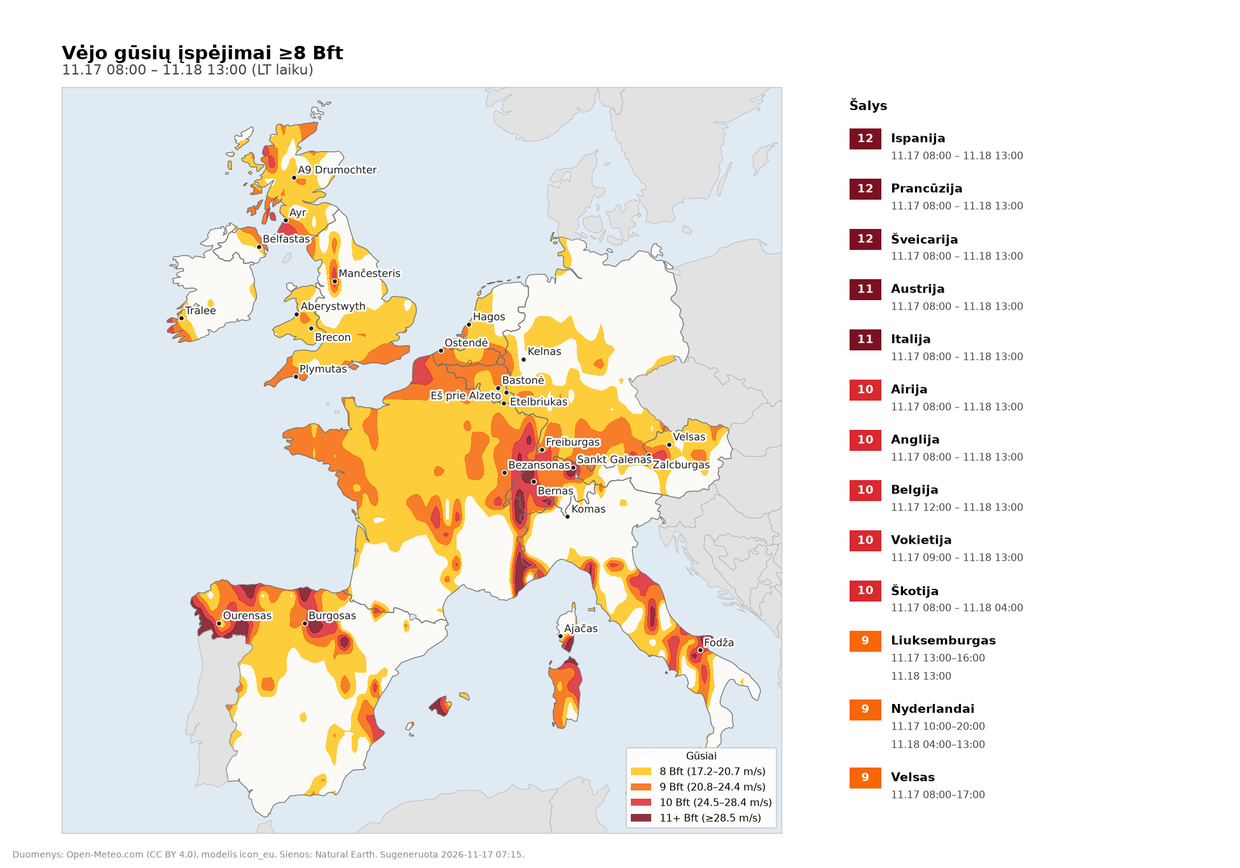
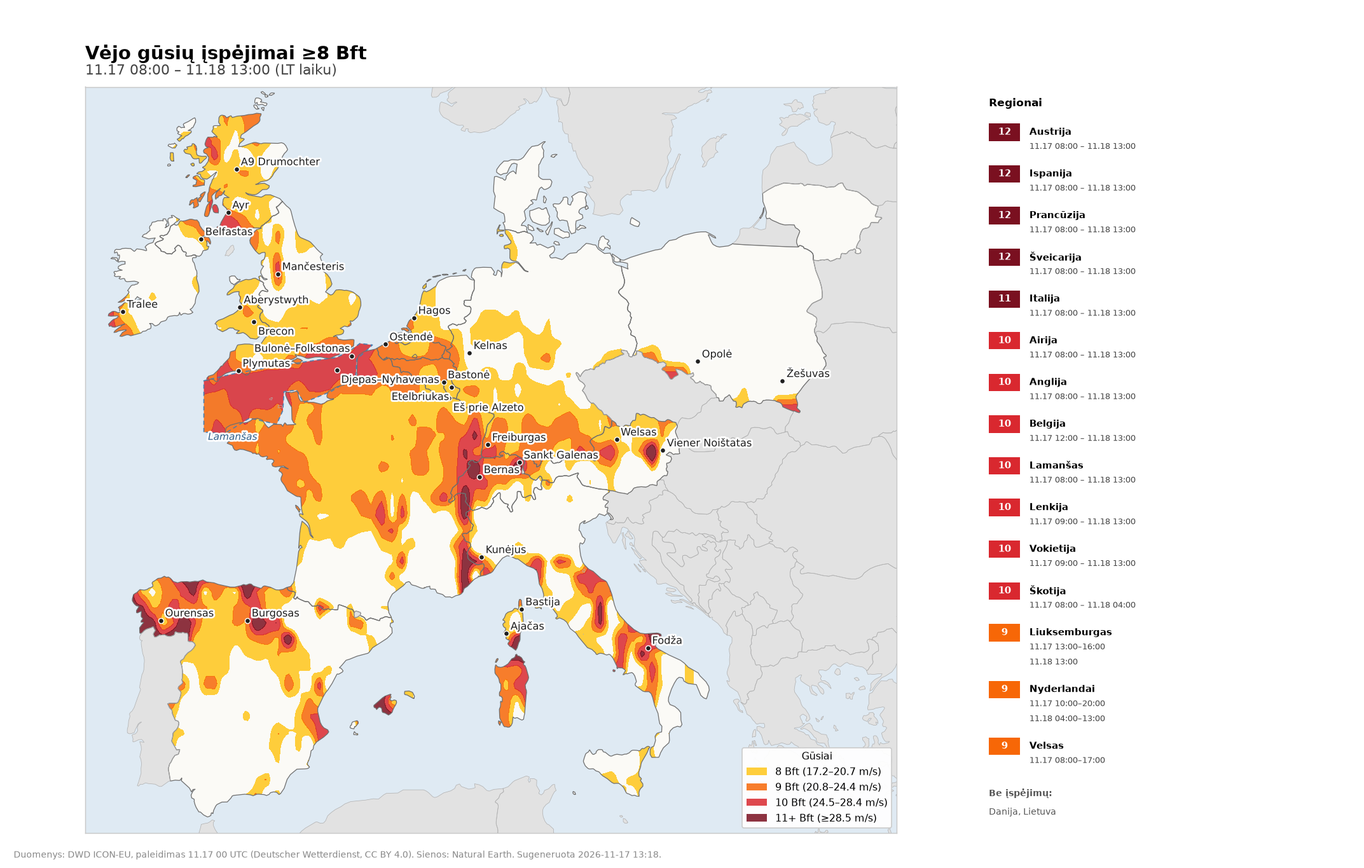
Vėjo įspėjimai 2026-11-17

Changed region(s): [[0.0308, 0.0308, 0.8308, 1.0]]

diff --git a/output/vejo_ispejimai.html b/output/vejo_ispejimai.html
@@ -1,1 +1,1 @@
-<p style="font-family:Arial,sans-serif;font-size:14px"><b>Vėjo gūsių įspėjimai ≥8 Bft</b><br>Laikotarpis: 11.17 08:00 – 11.18 13:00 (LT laiku)</p><table style="border-collapse:collapse;font-family:Arial,sans-serif;font-size:13px"><tr style="background:#f3f3f3"><th style="padding:6px 10px;border:1px solid #ddd;text-align:left">Regionas</th><th style="padding:6px 10px;border:1px solid #ddd;text-align:left">Gūsiai</th><th style="padding:6px 10px;border:1px solid #ddd;text-align:left">Laikotarpis</th><th style="padding:6px 10px;border:1px solid #ddd;text-align:left">Vietos</th></tr><tr><td rowspan="1" style="padding:6px 10px;border:1px solid #ddd;font-weight:bold;vertical-align:top">Ispanija</td><td style="padding:6px 10px;border:1px solid #ddd;background:#7a1020;color:#fff;font-weight:bold;text-align:center;white-space:nowrap">12 Bft<br><span style="font-weight:normal;font-size:11px">36 m/s</span></td><td style="padding:6px 10px;border:1px solid #ddd;vertical-align:top">11.17 08:00 – 11.18 13:00 (prasideda anksčiau, tęsiasi ir vėliau)</td><td style="padding:6px 10px;border:1px solid #ddd;vertical-align:top">Burgosas – 12 Bft, 11.17 08:00–11.18 13:00<br>Ourensas – 12 Bft, 11.17 08:00–11.18 13:00<br>Santanderis – 12 Bft, 11.17 08:00–11.18 04:00<br>Soria – 12 Bft, 11.17 08:00–11.18 13:00<br>Barselona – 11 Bft, 11.17 08:00–11.18 13:00<br>Logronjas – 11 Bft, 11.17 08:00–11.18 12:00<br>+26 kitos vietos</td></tr><tr><td rowspan="1" style="padding:6px 10px;border:1px solid #ddd;font-weight:bold;vertical-align:top">Prancūzija</td><td style="padding:6px 10px;border:1px solid #ddd;background:#7a1020;color:#fff;font-weight:bold;text-align:center;white-space:nowrap">12 Bft<br><span style="font-weight:normal;font-size:11px">36 m/s</span></td><td style="padding:6px 10px;border:1px solid #ddd;vertical-align:top">11.17 08:00 – 11.18 13:00 (prasideda anksčiau, tęsiasi ir vėliau)</td><td style="padding:6px 10px;border:1px solid #ddd;vertical-align:top">Ajačas (Korsika) – 12 Bft, 11.17 08:00–11.18 01:00<br>Bezansonas – 12 Bft, 11.17 08:00–11.18 13:00<br>Grenoblis – 12 Bft, 11.17 11:00–11.18 13:00<br>Nica – 12 Bft, 11.17 11:00–11.18 13:00<br>Klermonas – 11 Bft, 11.17 08:00–11.18 13:00<br>Miulūzas – 11 Bft, 11.17 08:00–11.18 13:00<br>+34 kitos vietos</td></tr><tr><td rowspan="1" style="padding:6px 10px;border:1px solid #ddd;font-weight:bold;vertical-align:top">Šveicarija</td><td style="padding:6px 10px;border:1px solid #ddd;background:#7a1020;color:#fff;font-weight:bold;text-align:center;white-space:nowrap">12 Bft<br><span style="font-weight:normal;font-size:11px">35 m/s</span></td><td style="padding:6px 10px;border:1px solid #ddd;vertical-align:top">11.17 08:00 – 11.18 13:00 (prasideda anksčiau, tęsiasi ir vėliau)</td><td style="padding:6px 10px;border:1px solid #ddd;vertical-align:top">Bernas – 12 Bft, 11.17 08:00–11.18 13:00<br>Sankt Galenas – 12 Bft, 11.17 13:00–11.18 13:00<br>Sionas – 11 Bft, 11.17 23:00–11.18 08:00<br>Lozana – 10 Bft, 11.17 08:00–11.18 13:00<br>Airolo (Gotardas) – 9 Bft, 11.17 10:00–11.18 05:00<br>Nojšatelis – 9 Bft, 11.17 12:00–11.18 03:00<br>+7 kitos vietos</td></tr><tr><td rowspan="1" style="padding:6px 10px;border:1px solid #ddd;font-weight:bold;vertical-align:top">Austrija</td><td style="padding:6px 10px;border:1px solid #ddd;background:#7a1020;color:#fff;font-weight:bold;text-align:center;white-space:nowrap">11 Bft<br><span style="font-weight:normal;font-size:11px">30 m/s</span></td><td style="padding:6px 10px;border:1px solid #ddd;vertical-align:top">11.17 08:00 – 11.18 13:00 (tęsiasi ir vėliau)</td><td style="padding:6px 10px;border:1px solid #ddd;vertical-align:top">Velsas (AT) – 11 Bft, 11.17 16:00–11.18 13:00<br>Zalcburgas – 10 Bft, 11.17 20:00–11.18 09:00<br>Bregencas – 9 Bft, 11.17 16:00–11.18 13:00<br>Landekas – 9 Bft, 11.18 04:00–13:00<br>Viena – 9 Bft, 11.18 09:00–13:00<br>Gracas – 9 Bft, 11.18 10:00<br>+7 kitos vietos</td></tr><tr><td rowspan="1" style="padding:6px 10px;border:1px solid #ddd;font-weight:bold;vertical-align:top">Italija</td><td style="padding:6px 10px;border:1px solid #ddd;background:#7a1020;color:#fff;font-weight:bold;text-align:center;white-space:nowrap">11 Bft<br><span style="font-weight:normal;font-size:11px">32 m/s</span></td><td style="padding:6px 10px;border:1px solid #ddd;vertical-align:top">11.17 08:00 – 11.18 13:00 (prasideda anksčiau, tęsiasi ir vėliau)</td><td style="padding:6px 10px;border:1px solid #ddd;vertical-align:top">Fodža – 11 Bft, 11.17 08:00–11.18 13:00<br>Komas – 11 Bft, 11.17 08:00–11.18 13:00<br>La Specija – 11 Bft, 11.17 08:00–22:00<br>Kunėjus – 11 Bft, 11.17 09:00–11.18 13:00<br>Perudža – 11 Bft, 11.17 11:00–11.18 13:00<br>Roma – 11 Bft, 11.17 11:00–11.18 13:00<br>+21 kitos vietos</td></tr><tr><td rowspan="1" style="padding:6px 10px;border:1px solid #ddd;font-weight:bold;vertical-align:top">Škotija</td><td style="padding:6px 10px;border:1px solid #ddd;background:#d9282f;color:#fff;font-weight:bold;text-align:center;white-space:nowrap">10 Bft<br><span style="font-weight:normal;font-size:11px">28 m/s</span></td><td style="padding:6px 10px;border:1px solid #ddd;vertical-align:top">11.17 08:00 – 11.18 04:00 (prasideda anksčiau)</td><td style="padding:6px 10px;border:1px solid #ddd;vertical-align:top">A9 Drumochter – 10 Bft, 11.17 08:00–20:00<br>Ayr – 10 Bft, 11.17 08:00–14:00<br>Cairnryan – 10 Bft, 11.17 08:00–17:00<br>Fort William – 10 Bft, 11.17 08:00–11.18 04:00<br>Dundee – 9 Bft, 11.17 08:00–17:00<br>M74 Beattock – 9 Bft, 11.17 08:00–14:00<br>+8 kitos vietos</td></tr><tr><td rowspan="1" style="padding:6px 10px;border:1px solid #ddd;font-weight:bold;vertical-align:top">Anglija</td><td style="padding:6px 10px;border:1px solid #ddd;background:#d9282f;color:#fff;font-weight:bold;text-align:center;white-space:nowrap">10 Bft<br><span style="font-weight:normal;font-size:11px">28 m/s</span></td><td style="padding:6px 10px;border:1px solid #ddd;vertical-align:top">11.17 08:00 – 11.18 13:00 (prasideda anksčiau, tęsiasi ir vėliau)</td><td style="padding:6px 10px;border:1px solid #ddd;vertical-align:top">Mančesteris – 10 Bft, 11.17 08:00–12:00<br>Plymutas – 10 Bft, 11.17 08:00–11.18 13:00<br>Karlailas – 9 Bft, 11.17 08:00–12:00<br>Kornvalis – 9 Bft, 11.17 08:00–11.18 13:00<br>M6 Shap – 9 Bft, 11.17 08:00–13:00<br>Portsmutas – 9 Bft, 11.17 08:00–18:00<br>+14 kitos vietos</td></tr><tr><td rowspan="1" style="padding:6px 10px;border:1px solid #ddd;font-weight:bold;vertical-align:top">Airija</td><td style="padding:6px 10px;border:1px solid #ddd;background:#d9282f;color:#fff;font-weight:bold;text-align:center;white-space:nowrap">10 Bft<br><span style="font-weight:normal;font-size:11px">26 m/s</span></td><td style="padding:6px 10px;border:1px solid #ddd;vertical-align:top">11.17 08:00 – 11.18 13:00 (prasideda anksčiau, tęsiasi ir vėliau)</td><td style="padding:6px 10px;border:1px solid #ddd;vertical-align:top">Tralee – 10 Bft, 11.17 08:00–11.18 13:00<br>Belfastas – 9 Bft, 11.17 08:00–10:00<br>Korkas – 8 Bft, 11.17 08:00–11.18 11:00<br>Derry – 8 Bft, 11.17 09:00<br>Dublinas – 8 Bft, 11.17 10:00–17:00<br>Limerikas – 8 Bft, 11.17 11:00–16:00</td></tr><tr><td rowspan="1" style="padding:6px 10px;border:1px solid #ddd;font-weight:bold;vertical-align:top">Belgija</td><td style="padding:6px 10px;border:1px solid #ddd;background:#d9282f;color:#fff;font-weight:bold;text-align:center;white-space:nowrap">10 Bft<br><span style="font-weight:normal;font-size:11px">25 m/s</span></td><td style="padding:6px 10px;border:1px solid #ddd;vertical-align:top">11.17 12:00 – 11.18 13:00 (tęsiasi ir vėliau)</td><td style="padding:6px 10px;border:1px solid #ddd;vertical-align:top">Ostendė – 10 Bft, 11.17 12:00–19:00<br>Namiūras – 9 Bft, 11.17 12:00–11.18 13:00<br>Šarlerua – 9 Bft, 11.17 12:00–11.18 13:00<br>Bastonė – 9 Bft, 11.17 13:00–11.18 13:00<br>Briuselis – 9 Bft, 11.17 13:00–11.18 13:00<br>Gentas – 9 Bft, 11.17 13:00–11.18 13:00<br>+6 kitos vietos</td></tr><tr><td rowspan="1" style="padding:6px 10px;border:1px solid #ddd;font-weight:bold;vertical-align:top">Vokietija</td><td style="padding:6px 10px;border:1px solid #ddd;background:#d9282f;color:#fff;font-weight:bold;text-align:center;white-space:nowrap">10 Bft<br><span style="font-weight:normal;font-size:11px">27 m/s</span></td><td style="padding:6px 10px;border:1px solid #ddd;vertical-align:top">11.17 09:00 – 11.18 13:00 (tęsiasi ir vėliau)</td><td style="padding:6px 10px;border:1px solid #ddd;vertical-align:top">Freiburgas – 10 Bft, 11.17 09:00–11.18 13:00<br>Kelnas – 10 Bft, 11.17 13:00–11.18 13:00<br>Miunchenas – 10 Bft, 11.17 15:00–11.18 13:00<br>Štutgartas – 9 Bft, 11.17 11:00–11.18 13:00<br>Saarbriukenas – 9 Bft, 11.17 14:00–11.18 13:00<br>Augsburgas – 9 Bft, 11.17 15:00–11.18 13:00<br>+18 kitos vietos</td></tr><tr><td rowspan="1" style="padding:6px 10px;border:1px solid #ddd;font-weight:bold;vertical-align:top">Velsas</td><td style="padding:6px 10px;border:1px solid #ddd;background:#f76707;color:#fff;font-weight:bold;text-align:center;white-space:nowrap">9 Bft<br><span style="font-weight:normal;font-size:11px">22 m/s</span></td><td style="padding:6px 10px;border:1px solid #ddd;vertical-align:top">11.17 08:00 – 11.17 17:00 (prasideda anksčiau)</td><td style="padding:6px 10px;border:1px solid #ddd;vertical-align:top">Svonsis – 9 Bft, 11.17 08:00–16:00<br>Kardifas – 9 Bft, 11.17 09:00–17:00<br>Aberystwyth – 9 Bft, 11.17 10:00–17:00<br>Brecon – 9 Bft, 11.17 12:00–17:00<br>A55 Deeside – 8 Bft, 11.17 08:00–09:00<br>Bangoras – 8 Bft, 11.17 08:00–09:00<br>+3 kitos vietos</td></tr><tr><td rowspan="2" style="padding:6px 10px;border:1px solid #ddd;font-weight:bold;vertical-align:top">Nyderlandai</td><td style="padding:6px 10px;border:1px solid #ddd;background:#f76707;color:#fff;font-weight:bold;text-align:center;white-space:nowrap">9 Bft<br><span style="font-weight:normal;font-size:11px">22 m/s</span></td><td style="padding:6px 10px;border:1px solid #ddd;vertical-align:top">11.17 10:00 – 11.17 20:00</td><td style="padding:6px 10px;border:1px solid #ddd;vertical-align:top">Vlisingenas – 9 Bft, 11.17 13:00–18:00<br>Mastrichtas – 9 Bft, 11.17 14:00–17:00<br>Roterdamas – 9 Bft, 11.17 14:00–19:00<br>Eindhovenas – 9 Bft, 11.17 15:00–17:00<br>Hagos – 9 Bft, 11.17 15:00–19:00<br>Venlo – 9 Bft, 11.17 16:00<br>+5 kitos vietos</td></tr><tr><td style="padding:6px 10px;border:1px solid #ddd;background:#ffc61a;color:#3d2c00;font-weight:bold;text-align:center;white-space:nowrap">8 Bft<br><span style="font-weight:normal;font-size:11px">20 m/s</span></td><td style="padding:6px 10px;border:1px solid #ddd;vertical-align:top">11.18 04:00 – 11.18 13:00 (tęsiasi ir vėliau)</td><td style="padding:6px 10px;border:1px solid #ddd;vertical-align:top">Den Helderis – 8 Bft, 11.18 04:00–08:00<br>Eindhovenas – 8 Bft, 11.18 11:00–13:00<br>Mastrichtas – 8 Bft, 11.18 12:00–13:00<br>Venlo – 8 Bft, 11.18 12:00–13:00</td></tr><tr><td rowspan="2" style="padding:6px 10px;border:1px solid #ddd;font-weight:bold;vertical-align:top">Liuksemburgas</td><td style="padding:6px 10px;border:1px solid #ddd;background:#f76707;color:#fff;font-weight:bold;text-align:center;white-space:nowrap">9 Bft<br><span style="font-weight:normal;font-size:11px">21 m/s</span></td><td style="padding:6px 10px;border:1px solid #ddd;vertical-align:top">11.17 13:00 – 11.17 16:00</td><td style="padding:6px 10px;border:1px solid #ddd;vertical-align:top">Eš prie Alzeto – 9 Bft, 11.17 14:00–16:00<br>Liuksemburgas (m.) – 8 Bft, 11.17 13:00–14:00<br>Etelbriukas – 8 Bft, 11.17 14:00–15:00<br>Klervo – 8 Bft, 11.17 14:00–16:00<br>Grevenmacheris – 8 Bft, 11.17 15:00–16:00</td></tr><tr><td style="padding:6px 10px;border:1px solid #ddd;background:#ffc61a;color:#3d2c00;font-weight:bold;text-align:center;white-space:nowrap">8 Bft<br><span style="font-weight:normal;font-size:11px">17 m/s</span></td><td style="padding:6px 10px;border:1px solid #ddd;vertical-align:top">11.18 13:00 (tęsiasi ir vėliau)</td><td style="padding:6px 10px;border:1px solid #ddd;vertical-align:top">Eš prie Alzeto – 8 Bft, 11.18 13:00</td></tr></table><p style="font-family:Arial,sans-serif;font-size:11px;color:#888">Duomenys: Open-Meteo.com (CC BY 4.0), modelis icon_eu. Sienos: Natural Earth. Sugeneruota 2026-11-17 07:15.</p>
+<p style="font-family:Arial,sans-serif;font-size:14px"><b>Vėjo gūsių įspėjimai ≥8 Bft</b><br>Laikotarpis: 11.17 08:00 – 11.18 13:00 (LT laiku)</p><table style="border-collapse:collapse;font-family:Arial,sans-serif;font-size:13px"><tr style="background:#f3f3f3"><th style="padding:6px 10px;border:1px solid #ddd;text-align:left">Regionas</th><th style="padding:6px 10px;border:1px solid #ddd;text-align:left">Gūsiai</th><th style="padding:6px 10px;border:1px solid #ddd;text-align:left">Laikotarpis</th><th style="padding:6px 10px;border:1px solid #ddd;text-align:left">Vietos</th></tr><tr><td rowspan="1" style="padding:6px 10px;border:1px solid #ddd;font-weight:bold;vertical-align:top">Ispanija</td><td style="padding:6px 10px;border:1px solid #ddd;background:#7a1020;color:#fff;font-weight:bold;text-align:center;white-space:nowrap">12 Bft<br><span style="font-weight:normal;font-size:11px">36 m/s</span></td><td style="padding:6px 10px;border:1px solid #ddd;vertical-align:top">11.17 08:00 – 11.18 13:00 (prasideda anksčiau, tęsiasi ir vėliau)</td><td style="padding:6px 10px;border:1px solid #ddd;vertical-align:top">Burgosas – 12 Bft, 11.17 08:00–11.18 13:00<br>Ourensas – 12 Bft, 11.17 08:00–11.18 13:00<br>Santanderis – 12 Bft, 11.17 08:00–11.18 04:00<br>Soria – 12 Bft, 11.17 08:00–11.18 13:00<br>Barselona – 11 Bft, 11.17 08:00–11.18 13:00<br>Logronjas – 11 Bft, 11.17 08:00–11.18 12:00<br>+27 kitos vietos</td></tr><tr><td rowspan="1" style="padding:6px 10px;border:1px solid #ddd;font-weight:bold;vertical-align:top">Prancūzija</td><td style="padding:6px 10px;border:1px solid #ddd;background:#7a1020;color:#fff;font-weight:bold;text-align:center;white-space:nowrap">12 Bft<br><span style="font-weight:normal;font-size:11px">38 m/s</span></td><td style="padding:6px 10px;border:1px solid #ddd;vertical-align:top">11.17 08:00 – 11.18 13:00 (prasideda anksčiau, tęsiasi ir vėliau)</td><td style="padding:6px 10px;border:1px solid #ddd;vertical-align:top">Ajačas (Korsika) – 12 Bft, 11.17 08:00–11.18 01:00<br>Bezansonas – 12 Bft, 11.17 08:00–11.18 13:00<br>Grenoblis – 12 Bft, 11.17 11:00–11.18 13:00<br>Nica – 12 Bft, 11.17 11:00–11.18 13:00<br>Bastija (Korsika) – 12 Bft, 11.17 22:00–11.18 13:00<br>Klermonas – 11 Bft, 11.17 08:00–11.18 13:00<br>+36 kitos vietos</td></tr><tr><td rowspan="1" style="padding:6px 10px;border:1px solid #ddd;font-weight:bold;vertical-align:top">Austrija</td><td style="padding:6px 10px;border:1px solid #ddd;background:#7a1020;color:#fff;font-weight:bold;text-align:center;white-space:nowrap">12 Bft<br><span style="font-weight:normal;font-size:11px">40 m/s</span></td><td style="padding:6px 10px;border:1px solid #ddd;vertical-align:top">11.17 08:00 – 11.18 13:00 (tęsiasi ir vėliau)</td><td style="padding:6px 10px;border:1px solid #ddd;vertical-align:top">Viener Noištatas – 12 Bft, 11.17 10:00–11.18 13:00<br>Welsas – 11 Bft, 11.17 16:00–11.18 13:00<br>Zalcburgas – 10 Bft, 11.17 20:00–11.18 09:00<br>Bregencas – 9 Bft, 11.17 16:00–11.18 13:00<br>Landekas – 9 Bft, 11.18 04:00–13:00<br>Viena – 9 Bft, 11.18 09:00–13:00<br>+7 kitos vietos</td></tr><tr><td rowspan="1" style="padding:6px 10px;border:1px solid #ddd;font-weight:bold;vertical-align:top">Šveicarija</td><td style="padding:6px 10px;border:1px solid #ddd;background:#7a1020;color:#fff;font-weight:bold;text-align:center;white-space:nowrap">12 Bft<br><span style="font-weight:normal;font-size:11px">35 m/s</span></td><td style="padding:6px 10px;border:1px solid #ddd;vertical-align:top">11.17 08:00 – 11.18 13:00 (prasideda anksčiau, tęsiasi ir vėliau)</td><td style="padding:6px 10px;border:1px solid #ddd;vertical-align:top">Bernas – 12 Bft, 11.17 08:00–11.18 13:00<br>Sankt Galenas – 12 Bft, 11.17 13:00–11.18 13:00<br>Lozana – 10 Bft, 11.17 08:00–11.18 13:00<br>Oltenas – 10 Bft, 11.17 08:00–11.18 13:00<br>Airolo (Gotardas) – 9 Bft, 11.17 10:00–11.18 05:00<br>Nojšatelis – 9 Bft, 11.17 11:00–11.18 13:00<br>+7 kitos vietos</td></tr><tr><td rowspan="1" style="padding:6px 10px;border:1px solid #ddd;font-weight:bold;vertical-align:top">Italija</td><td style="padding:6px 10px;border:1px solid #ddd;background:#7a1020;color:#fff;font-weight:bold;text-align:center;white-space:nowrap">11 Bft<br><span style="font-weight:normal;font-size:11px">32 m/s</span></td><td style="padding:6px 10px;border:1px solid #ddd;vertical-align:top">11.17 08:00 – 11.18 13:00 (prasideda anksčiau, tęsiasi ir vėliau)</td><td style="padding:6px 10px;border:1px solid #ddd;vertical-align:top">Fodža – 11 Bft, 11.17 08:00–11.18 13:00<br>La Specija – 11 Bft, 11.17 08:00–22:00<br>Kunėjus – 11 Bft, 11.17 09:00–11.18 13:00<br>Perudža – 11 Bft, 11.17 11:00–11.18 13:00<br>Roma – 11 Bft, 11.17 11:00–11.18 13:00<br>Bolonija – 10 Bft, 11.17 08:00–11.18 13:00<br>+19 kitos vietos</td></tr><tr><td rowspan="1" style="padding:6px 10px;border:1px solid #ddd;font-weight:bold;vertical-align:top">Škotija</td><td style="padding:6px 10px;border:1px solid #ddd;background:#d9282f;color:#fff;font-weight:bold;text-align:center;white-space:nowrap">10 Bft<br><span style="font-weight:normal;font-size:11px">28 m/s</span></td><td style="padding:6px 10px;border:1px solid #ddd;vertical-align:top">11.17 08:00 – 11.18 04:00 (prasideda anksčiau)</td><td style="padding:6px 10px;border:1px solid #ddd;vertical-align:top">A9 Drumochter – 10 Bft, 11.17 08:00–20:00<br>Ayr – 10 Bft, 11.17 08:00–14:00<br>Cairnryan – 10 Bft, 11.17 08:00–17:00<br>Fort William – 10 Bft, 11.17 08:00–11.18 04:00<br>Dundee – 9 Bft, 11.17 08:00–17:00<br>M74 Beattock – 9 Bft, 11.17 08:00–14:00<br>+8 kitos vietos</td></tr><tr><td rowspan="1" style="padding:6px 10px;border:1px solid #ddd;font-weight:bold;vertical-align:top">Anglija</td><td style="padding:6px 10px;border:1px solid #ddd;background:#d9282f;color:#fff;font-weight:bold;text-align:center;white-space:nowrap">10 Bft<br><span style="font-weight:normal;font-size:11px">28 m/s</span></td><td style="padding:6px 10px;border:1px solid #ddd;vertical-align:top">11.17 08:00 – 11.18 13:00 (prasideda anksčiau, tęsiasi ir vėliau)</td><td style="padding:6px 10px;border:1px solid #ddd;vertical-align:top">Mančesteris – 10 Bft, 11.17 08:00–12:00<br>Plymutas – 10 Bft, 11.17 08:00–11.18 13:00<br>Karlailas – 9 Bft, 11.17 08:00–12:00<br>Kornvalis – 9 Bft, 11.17 08:00–11.18 13:00<br>M6 Shap – 9 Bft, 11.17 08:00–13:00<br>Portsmutas – 9 Bft, 11.17 08:00–18:00<br>+14 kitos vietos</td></tr><tr><td rowspan="1" style="padding:6px 10px;border:1px solid #ddd;font-weight:bold;vertical-align:top">Airija</td><td style="padding:6px 10px;border:1px solid #ddd;background:#d9282f;color:#fff;font-weight:bold;text-align:center;white-space:nowrap">10 Bft<br><span style="font-weight:normal;font-size:11px">26 m/s</span></td><td style="padding:6px 10px;border:1px solid #ddd;vertical-align:top">11.17 08:00 – 11.18 13:00 (prasideda anksčiau, tęsiasi ir vėliau)</td><td style="padding:6px 10px;border:1px solid #ddd;vertical-align:top">Tralee – 10 Bft, 11.17 08:00–11.18 13:00<br>Belfastas – 9 Bft, 11.17 08:00–10:00<br>Korkas – 8 Bft, 11.17 08:00–11.18 11:00<br>Derry – 8 Bft, 11.17 09:00<br>Dublinas – 8 Bft, 11.17 10:00–17:00<br>Limerikas – 8 Bft, 11.17 11:00–16:00</td></tr><tr><td rowspan="1" style="padding:6px 10px;border:1px solid #ddd;font-weight:bold;vertical-align:top">Belgija</td><td style="padding:6px 10px;border:1px solid #ddd;background:#d9282f;color:#fff;font-weight:bold;text-align:center;white-space:nowrap">10 Bft<br><span style="font-weight:normal;font-size:11px">25 m/s</span></td><td style="padding:6px 10px;border:1px solid #ddd;vertical-align:top">11.17 12:00 – 11.18 13:00 (tęsiasi ir vėliau)</td><td style="padding:6px 10px;border:1px solid #ddd;vertical-align:top">Ostendė – 10 Bft, 11.17 12:00–19:00<br>Namiūras – 9 Bft, 11.17 12:00–11.18 13:00<br>Šarlerua – 9 Bft, 11.17 12:00–11.18 13:00<br>Bastonė – 9 Bft, 11.17 13:00–11.18 13:00<br>Briuselis – 9 Bft, 11.17 13:00–11.18 13:00<br>Gentas – 9 Bft, 11.17 13:00–11.18 13:00<br>+6 kitos vietos</td></tr><tr><td rowspan="1" style="padding:6px 10px;border:1px solid #ddd;font-weight:bold;vertical-align:top">Vokietija</td><td style="padding:6px 10px;border:1px solid #ddd;background:#d9282f;color:#fff;font-weight:bold;text-align:center;white-space:nowrap">10 Bft<br><span style="font-weight:normal;font-size:11px">27 m/s</span></td><td style="padding:6px 10px;border:1px solid #ddd;vertical-align:top">11.17 09:00 – 11.18 13:00 (tęsiasi ir vėliau)</td><td style="padding:6px 10px;border:1px solid #ddd;vertical-align:top">Freiburgas – 10 Bft, 11.17 09:00–11.18 13:00<br>Kelnas – 10 Bft, 11.17 13:00–11.18 13:00<br>Miunchenas – 10 Bft, 11.17 15:00–11.18 13:00<br>Štutgartas – 9 Bft, 11.17 11:00–11.18 13:00<br>Saarbriukenas – 9 Bft, 11.17 14:00–11.18 13:00<br>Augsburgas – 9 Bft, 11.17 15:00–11.18 13:00<br>+18 kitos vietos</td></tr><tr><td rowspan="1" style="padding:6px 10px;border:1px solid #ddd;font-weight:bold;vertical-align:top">Lenkija</td><td style="padding:6px 10px;border:1px solid #ddd;background:#d9282f;color:#fff;font-weight:bold;text-align:center;white-space:nowrap">10 Bft<br><span style="font-weight:normal;font-size:11px">26 m/s</span></td><td style="padding:6px 10px;border:1px solid #ddd;vertical-align:top">11.17 09:00 – 11.18 13:00 (tęsiasi ir vėliau)</td><td style="padding:6px 10px;border:1px solid #ddd;vertical-align:top">Žešuvas – 10 Bft, 11.17 09:00–11.18 13:00<br>Opolė – 10 Bft, 11.17 16:00–11.18 13:00<br>Legnica – 9 Bft, 11.17 16:00–11.18 13:00<br>Krokuva – 8 Bft, 11.17 23:00</td></tr><tr><td rowspan="1" style="padding:6px 10px;border:1px solid #ddd;font-weight:bold;vertical-align:top">Lamanšas</td><td style="padding:6px 10px;border:1px solid #ddd;background:#d9282f;color:#fff;font-weight:bold;text-align:center;white-space:nowrap">10 Bft<br><span style="font-weight:normal;font-size:11px">28 m/s</span></td><td style="padding:6px 10px;border:1px solid #ddd;vertical-align:top">11.17 08:00 – 11.18 13:00 (prasideda anksčiau, tęsiasi ir vėliau)</td><td style="padding:6px 10px;border:1px solid #ddd;vertical-align:top">Djepas–Nyhavenas – 10 Bft, 11.17 08:00–11.18 13:00<br>Laimo įlanka – 10 Bft, 11.17 08:00–11.18 13:00<br>Le Havras–Portsmutas – 10 Bft, 11.17 08:00–11.18 13:00<br>Normandijos salos – 10 Bft, 11.17 08:00–11.18 13:00<br>Roskofas–Plimutas – 10 Bft, 11.17 08:00–11.18 13:00<br>Ušantas – 10 Bft, 11.17 08:00–11.18 13:00<br>+4 kitos vietos</td></tr><tr><td rowspan="1" style="padding:6px 10px;border:1px solid #ddd;font-weight:bold;vertical-align:top">Velsas</td><td style="padding:6px 10px;border:1px solid #ddd;background:#f76707;color:#fff;font-weight:bold;text-align:center;white-space:nowrap">9 Bft<br><span style="font-weight:normal;font-size:11px">22 m/s</span></td><td style="padding:6px 10px;border:1px solid #ddd;vertical-align:top">11.17 08:00 – 11.17 17:00 (prasideda anksčiau)</td><td style="padding:6px 10px;border:1px solid #ddd;vertical-align:top">Kardifas – 9 Bft, 11.17 09:00–17:00<br>Aberystwyth – 9 Bft, 11.17 10:00–17:00<br>Brecon – 9 Bft, 11.17 12:00–17:00<br>A55 Deeside – 8 Bft, 11.17 08:00–09:00<br>Bangoras – 8 Bft, 11.17 08:00–09:00<br>Fishguard – 8 Bft, 11.17 08:00–15:00<br>+3 kitos vietos</td></tr><tr><td rowspan="2" style="padding:6px 10px;border:1px solid #ddd;font-weight:bold;vertical-align:top">Nyderlandai</td><td style="padding:6px 10px;border:1px solid #ddd;background:#f76707;color:#fff;font-weight:bold;text-align:center;white-space:nowrap">9 Bft<br><span style="font-weight:normal;font-size:11px">24 m/s</span></td><td style="padding:6px 10px;border:1px solid #ddd;vertical-align:top">11.17 10:00 – 11.17 20:00</td><td style="padding:6px 10px;border:1px solid #ddd;vertical-align:top">Vlisingenas – 9 Bft, 11.17 13:00–19:00<br>Mastrichtas – 9 Bft, 11.17 14:00–17:00<br>Roterdamas – 9 Bft, 11.17 14:00–19:00<br>Eindhovenas – 9 Bft, 11.17 15:00–17:00<br>Hagos – 9 Bft, 11.17 15:00–19:00<br>Venlo – 9 Bft, 11.17 16:00<br>+5 kitos vietos</td></tr><tr><td style="padding:6px 10px;border:1px solid #ddd;background:#ffc61a;color:#3d2c00;font-weight:bold;text-align:center;white-space:nowrap">8 Bft<br><span style="font-weight:normal;font-size:11px">20 m/s</span></td><td style="padding:6px 10px;border:1px solid #ddd;vertical-align:top">11.18 04:00 – 11.18 13:00 (tęsiasi ir vėliau)</td><td style="padding:6px 10px;border:1px solid #ddd;vertical-align:top">Den Helderis – 8 Bft, 11.18 04:00–08:00<br>Eindhovenas – 8 Bft, 11.18 11:00–13:00<br>Mastrichtas – 8 Bft, 11.18 12:00–13:00<br>Venlo – 8 Bft, 11.18 12:00–13:00</td></tr><tr><td rowspan="2" style="padding:6px 10px;border:1px solid #ddd;font-weight:bold;vertical-align:top">Liuksemburgas</td><td style="padding:6px 10px;border:1px solid #ddd;background:#f76707;color:#fff;font-weight:bold;text-align:center;white-space:nowrap">9 Bft<br><span style="font-weight:normal;font-size:11px">21 m/s</span></td><td style="padding:6px 10px;border:1px solid #ddd;vertical-align:top">11.17 13:00 – 11.17 16:00</td><td style="padding:6px 10px;border:1px solid #ddd;vertical-align:top">Eš prie Alzeto – 9 Bft, 11.17 14:00–16:00<br>Liuksemburgas (m.) – 8 Bft, 11.17 13:00–14:00<br>Etelbriukas – 8 Bft, 11.17 14:00–15:00<br>Klervo – 8 Bft, 11.17 14:00–16:00<br>Grevenmacheris – 8 Bft, 11.17 15:00–16:00</td></tr><tr><td style="padding:6px 10px;border:1px solid #ddd;background:#ffc61a;color:#3d2c00;font-weight:bold;text-align:center;white-space:nowrap">8 Bft<br><span style="font-weight:normal;font-size:11px">17 m/s</span></td><td style="padding:6px 10px;border:1px solid #ddd;vertical-align:top">11.18 13:00 (tęsiasi ir vėliau)</td><td style="padding:6px 10px;border:1px solid #ddd;vertical-align:top">Eš prie Alzeto – 8 Bft, 11.18 13:00</td></tr></table><p style="font-family:Arial,sans-serif;font-size:13px;color:#555">Be įspėjimų: Danija, Lietuva</p><p style="font-family:Arial,sans-serif;font-size:11px;color:#888">Duomenys: DWD ICON-EU, paleidimas 11.17 00 UTC (Deutscher Wetterdienst, CC BY 4.0). Sienos: Natural Earth. Sugeneruota 2026-11-17 13:18.</p>
